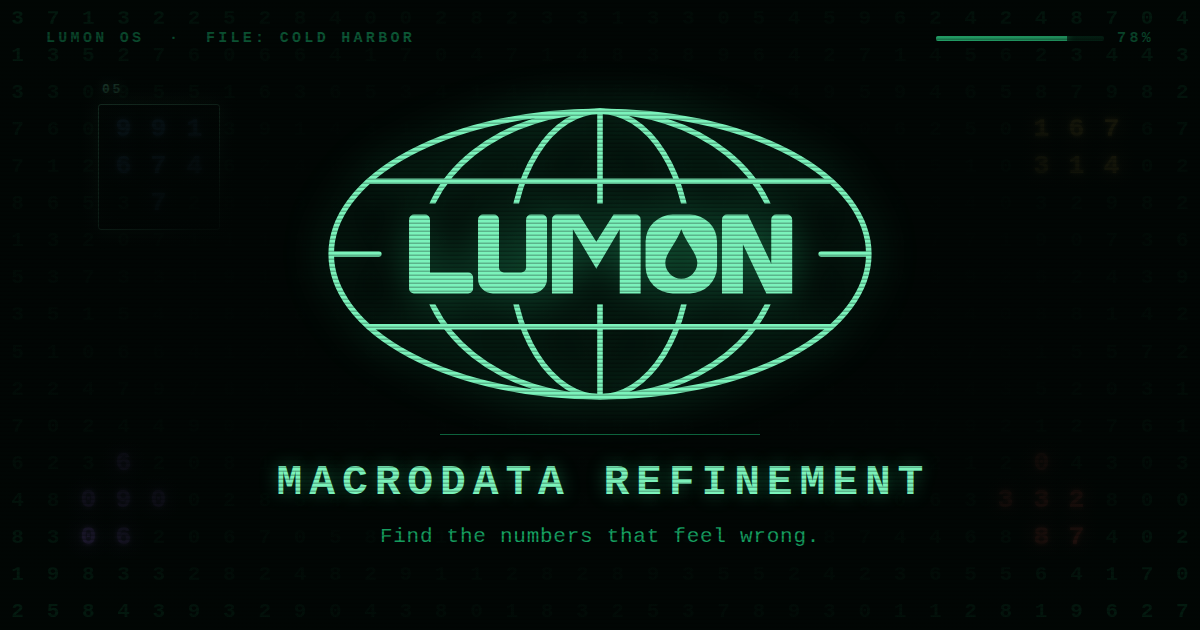
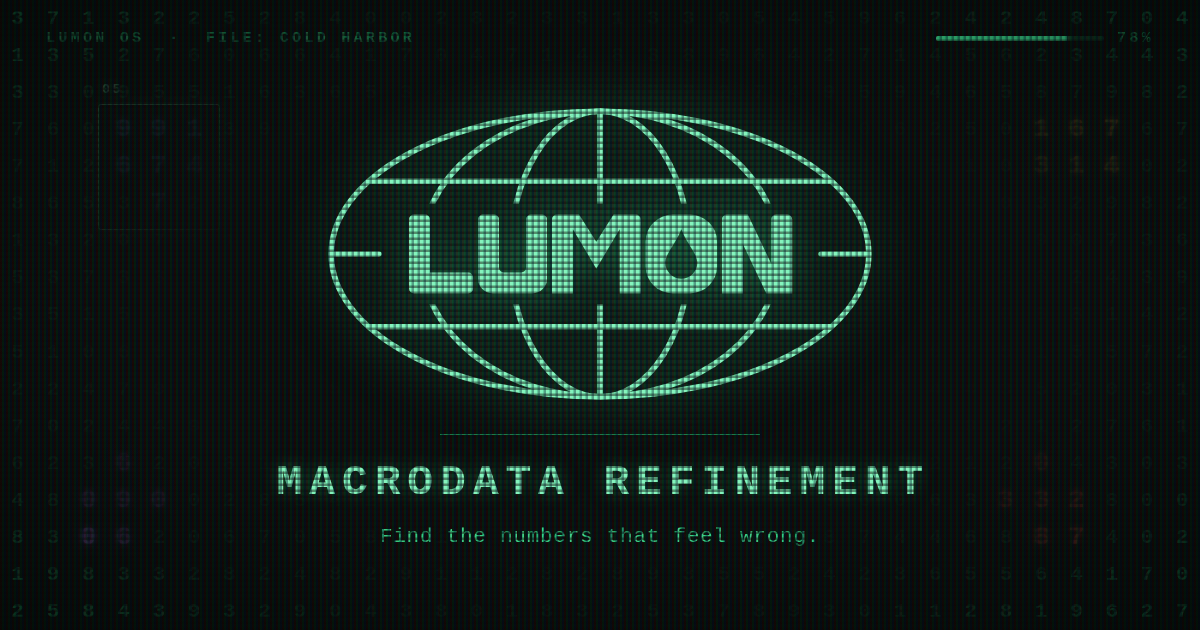
Give the card a shadow mask, not just scanlines
The grain was scanlines and nothing else, so bright areas got striped
rather than broken into phosphor. The glass now crosses those scanlines
with an aperture grille, which is what makes the mark read as lit dots —
close to the halftone in the reference.

Coarser than a real tube on purpose. A 1px pitch is right at 1200px wide
and turns to grey mush the moment a chat bubble scales the card to a
third of that, which is the size it is actually looked at. Six pixels
here is about two there: still a texture rather than a haze. A faint
screen-blended triad tints each surviving dot.

A mask this strong costs about half the light, so what is behind it is
driven harder to compensate — the idle number field, the glow on the
mark, the strap line. A real tube is bright *because* it is masked.

Checked at 1200px and at 340px, which is what a phone gives a link card.

305/305 end-to-end, 8/8 audio, data invariants green.

Claude-Session: https://claude.ai/code/session_017q5M2gH1cDT8Zfhj3hbvFD

diff --git a/tools/og.html b/tools/og.html
@@ -49,8 +49,8 @@
         place-items: center;
         font-size: 21px;
         font-weight: 700;
-        color: var(--phos-700);
-        opacity: 0.62;
+        color: var(--phos-600);
+        opacity: 0.72;
       }
       /* A cluster that has been probed and is agitated: its temper's colour,
          at full strength, lifted off the grid. */
@@ -105,7 +105,7 @@
          to land on, so it gets nearly half the card. */
       #mark {
         width: 560px;
-        filter: drop-shadow(0 0 22px rgba(47, 214, 138, 0.45));
+        filter: drop-shadow(0 0 26px rgba(47, 214, 138, 0.6));
       }
       .rule {
         margin-top: 26px;
@@ -127,7 +127,7 @@
         margin-top: 20px;
         font-size: 21px;
         letter-spacing: 0.035em;
-        color: var(--phos-500);
+        color: var(--phos-400);
       }
 
       /* The terminal's own furniture, along the top. Quiet enough that it
@@ -158,15 +158,48 @@
 
       /* CRT glass, last and over everything — the same scanlines and
          vignette the terminal itself wears. */
+      /* The glass: scanlines crossed with an aperture grille, which is
+         what makes the bright parts break into phosphor dots rather than
+         just get striped.
+
+         Coarser than a real tube on purpose. A 1px pitch is correct at
+         1200px wide and turns to grey mush the moment a chat bubble
+         scales the card to a third of that, which is the size it is
+         actually looked at. Six pixels here is about two there — still a
+         texture rather than a haze. */
       #glass {
         position: absolute;
         inset: 0;
-        background: repeating-linear-gradient(
-          to bottom,
-          rgba(0, 0, 0, 0) 0px,
-          rgba(0, 0, 0, 0) 2px,
-          rgba(0, 0, 0, 0.26) 3px,
-          rgba(0, 0, 0, 0.26) 4px
+        background-image:
+          repeating-linear-gradient(
+            to bottom,
+            rgba(0, 0, 0, 0) 0px,
+            rgba(0, 0, 0, 0) 3px,
+            rgba(0, 0, 0, 0.44) 4px,
+            rgba(0, 0, 0, 0.44) 6px
+          ),
+          repeating-linear-gradient(
+            to right,
+            rgba(0, 0, 0, 0) 0px,
+            rgba(0, 0, 0, 0) 3px,
+            rgba(0, 0, 0, 0.36) 4px,
+            rgba(0, 0, 0, 0.36) 6px
+          );
+      }
+      /* And the triads themselves, tinting each surviving dot. Faint —
+         this is the difference between "a screen" and "a novelty filter". */
+      #triads {
+        position: absolute;
+        inset: 0;
+        mix-blend-mode: screen;
+        background-image: repeating-linear-gradient(
+          to right,
+          rgba(255, 40, 40, 0.09) 0px,
+          rgba(255, 40, 40, 0.09) 2px,
+          rgba(40, 255, 120, 0.09) 2px,
+          rgba(40, 255, 120, 0.09) 4px,
+          rgba(60, 110, 255, 0.09) 4px,
+          rgba(60, 110, 255, 0.09) 6px
         );
       }
       #vignette {
@@ -199,6 +232,7 @@
     </div>
 
     <div id="glass"></div>
+    <div id="triads"></div>
     <div id="vignette"></div>
 
     <script>
